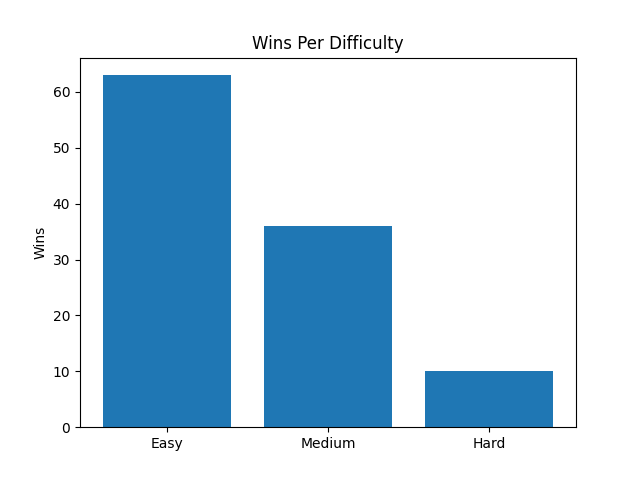
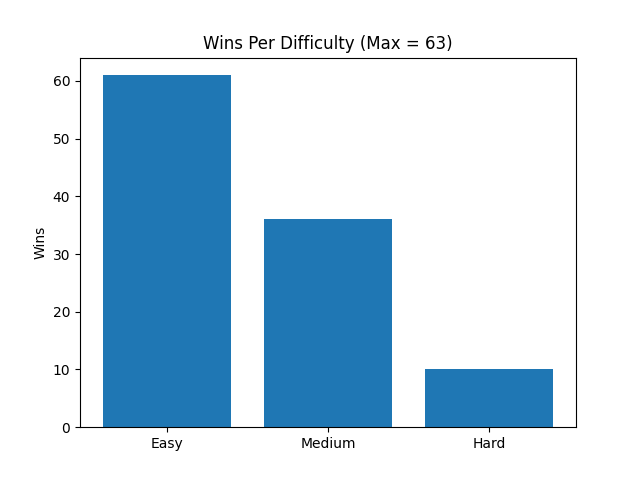
better charts

diff --git a/ParseTests.py b/ParseTests.py
@@ -66,7 +66,7 @@ fig, ax = plt.subplots()
 x_axis = difficulties
 ax.bar(x_axis,y_axis)
 ax.set_ylabel("Wins")
-ax.set_title("Wins Per Difficulty")
+ax.set_title("Wins Per Difficulty (Max = 63)")
 plt.show()
 
 #Plot wins by race
@@ -80,7 +80,7 @@ fig, ax = plt.subplots()
 x_axis = races
 ax.bar(x_axis,y_axis)
 ax.set_ylabel("Wins")
-ax.set_title("Wins Per Race")
+ax.set_title("Wins Per Race (Max = 63)")
 plt.show()
 
 #Plot wins vs map
@@ -94,7 +94,7 @@ fig, ax = plt.subplots()
 x_axis = maps
 ax.bar(x_axis,y_axis)
 ax.set_ylabel("Wins")
-ax.set_title("Wins Per Map")
+ax.set_title("Wins Per Map (Max = 63)")
 plt.show()
 
 #Average times
